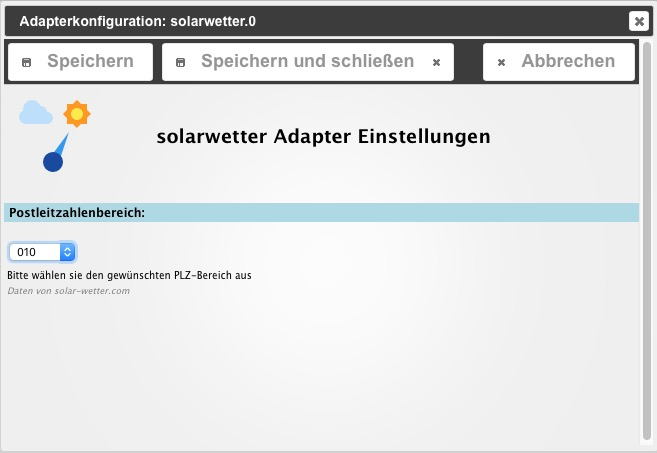
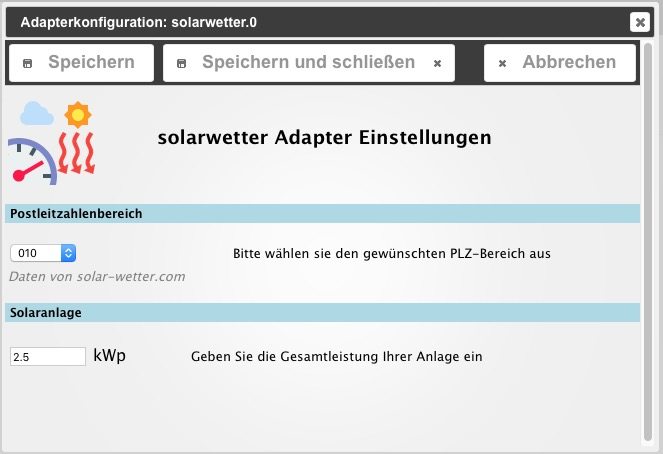
0.0.3

diff --git a/admin/index.html b/admin/index.html
@@ -17,12 +17,20 @@
     <script type="text/javascript" src="plz.js"></script>
 
     <style>
-        #description {
+        .description {
             font-size: smaller;	
         }
         .headline {
         	padding-top: 20px;
         	padding-left: 10px;
+        }
+        .subline {
+        
+        }
+        .copyright {
+           color: gray;
+           font-style: italic;
+           font-size: smaller;
         }
     </style>
 
@@ -34,9 +42,9 @@
                 "ru": "Настройки solarwetter Adapter"
             },
             "Postcode": {
-                "en": "Post code area:",
-                "de": "Postleitzahlenbereich:",
-                "ru": "Translate please: Postleitzahlenbereich:"
+                "en": "Post code area",
+                "de": "Postleitzahlenbereich",
+                "ru": "Translate please: Postleitzahlenbereich"
             },
             "Description": {
                 "en": "Choose your area by selecting the post code",
@@ -47,6 +55,16 @@
                 "en": "Data provided by solar-wetter.com",
                 "de": "Daten von solar-wetter.com",
                 "ru": "Translate to ru please: Data provided by solar-wetter.com"
+            },
+            "Device": {
+                "en": "Solar plant",
+                "de": "Solaranlage",
+                "ru": "Translate to ru please: Solar plant"
+            },
+            "Device_power": {
+                "en": "Power of your device",
+                "de": "Geben Sie die Gesamtleistung Ihrer Anlage ein",
+                "ru": "Translate to ru please: Geben Sie die Gesamtleistung Ihrer Anlage ein"
             }
         };
    
@@ -59,12 +77,13 @@
                 text += '<option value="' + plz[p] + '">' + plz[p] + '</option>\n';
             }
             $('#areacodelist').append(text);
-            
+           
+            $('#power').val(settings.power).change(onChange).keyup(onChange);
             onChange(false);
         }
         
         function save(callback) {
-            callback({location: $('#location').val()});
+            callback({location: $('#location').val(), power: $('#power').val().replace(/,/, ".")});
         }
     </script>
 
@@ -75,7 +94,7 @@
                 <td class="headline"><h3 class="translate">solarwetter Adapter settings</h3></td>
             </tr>
         </table>
-        <h4 class="translate" style="width: calc(100% - 10px)">Postcode</h4>
+        <h4 class="translate subline" style="width: calc(100% - 10px)">Postcode</h4>
         <table style="width: calc(100% - 5px)">
             <tr>
                 <td>
@@ -84,15 +103,18 @@
                         <!-- areacodelist from plz.js will be pasted here by skript -->
                         </optgroup>
                     </select>
-                </td>
-            </tr>
-        </table>
-        <table id="description" style="width: calc(100% - 5px)">
-            <tr>
-                <td class="translate ">Description</td>
+                </td> 
+                <td class="translate description">Description</td>
             </tr>
             <tr>    
-                <td class="translate" style="color: gray; font-style: italic; font-size: smaller">Copyright</td>
+                <td class="translate copyright">Copyright</td>
+            </tr>
+        </table>
+        <h4 class="translate subline" style="width: calc(100% - 10px)">Device</h4>
+        <table id="owndevice" style="margin-top: 20px; width: calc(100% - 5px)">
+            <tr>
+                <td ><input type="text" id="power" class="value" size="10"/> kWp</td>
+                <td class="translate description">Device_power</td>
             </tr>
         </table>
     </div>

diff --git a/main.js b/main.js
@@ -13,15 +13,20 @@ var adapter = utils.adapter({
 });
 
 var plz;
+var power;
 var link;
 
 var logging = false;
 
-var idClearSky =   'forecast.clearSky',
-    idRealSkyMin = 'forecast.realSky_min',
-    idRealSkyMax = 'forecast.realSky_max',
-    idDatum =      'forecast.Datum',
-    idPLZ =        'forecast.Region';
+var idClearSky =       'forecast.clearSky',
+    idRealSkyMin =     'forecast.realSky_min',
+    idRealSkyMax =     'forecast.realSky_max',
+    idDatum =          'forecast.Datum',
+    idPLZ =            'forecast.Region',
+    idHomeAnlage =     'forecast.home.Leistung',
+    idHomeClearSky =   'forecast.home.clearSky',
+    idHomeRealSkyMin = 'forecast.home.realSky_min',
+    idHomeRealSkyMax = 'forecast.home.realSky_max';
     
 adapter.on('ready', function () {
     adapter.getForeignObject('system.config', function (err, data) {
@@ -51,6 +56,15 @@ function readSettings() {
         adapter.log.info('Postcode: '+ plz);
         adapter.setState(idPLZ, plz, true);
     }
+    
+    power = adapter.config.power;
+    if (power === undefined || power === 0) {
+        adapter.log.info('Keine Leistung für die eigene Anlage angegeben'); // Translate!
+        power = 0;
+    } else {
+        adapter.log.info('Leistung eigene Anlage: '+ power + 'kWp');
+    }
+    adapter.setState(idHomeAnlage, power, true);
 } 
 
 function erstes_erstesAuftauchen(body,text1,text2) {
@@ -131,6 +145,7 @@ function findeWertClearsky (body) {
     var clearsky = erstes_erstesAuftauchen(body,text1,text2);
     if (logging) adapter.log.debug('ClearSky: ' + clearsky);
     adapter.setState(idClearSky, {ack: true, val: clearsky});                         // Wert in Objekt schreiben
+    adapter.setState(idHomeClearSky, {ack: true, val: clearsky * power});             // Wert in Objekt schreiben
 }
 
 function findeWertRealskyMinimum (body) {   
@@ -139,6 +154,7 @@ function findeWertRealskyMinimum (body) {
     var realsky_min = erstes_erstesAuftauchen(body,text1,text2);
     if (logging) adapter.log.debug('RealSkyMinimum: ' + realsky_min);
     adapter.setState(idRealSkyMin, {ack: true, val: realsky_min});                    // Wert in Objekt schreiben
+    adapter.setState(idHomeRealSkyMin, {ack: true, val: realsky_min * power});        // Wert in Objekt schreiben
 }
  
 function findeWertRealskyMaximum (body) {   
@@ -147,6 +163,7 @@ function findeWertRealskyMaximum (body) {
     var realsky_max = erstes_letztesAuftauchen(body,text1,text2);
     if (logging) adapter.log.debug('RealSkyMaximum: ' + realsky_max);
     adapter.setState(idRealSkyMax, {ack: true, val: realsky_max});                    // Wert in Objekt schreiben
+    adapter.setState(idHomeRealSkyMax, {ack: true, val: realsky_max * power});        // Wert in Objekt schreiben
 }
 
 function findeDatum (body) {   

diff --git a/README.md b/README.md
@@ -9,15 +9,19 @@
 [![NPM](https://nodei.co/npm/iobroker.solarwetter.png?downloads=true)](https://nodei.co/npm/iobroker.solarwetter/)
 
 ## Beschreibung / Description
-:de: Dieser Adapter liefert den prognostizierten Solarstrom Tagesertrag für eine bestimmte Region. Die Daten kommen von [http://www.auswahl-plz-bereich.solar-wetter.com](http://solar-wetter.com). 
+:de: Dieser Adapter liefert den prognostizierten Solarstrom Tagesertrag für eine bestimmte Region. Die Daten kommen von [http://www.auswahl-plz-bereich.solar-wetter.com](http://solar-wetter.com).
+Bei Eingabe der Leistung der eigenen Solaranlage errechnet der Adapter auch die zu erwartende Energieabgabe der Anlage.
 
 :uk: This adapter delivers a forecast of the daily amount of solar power for a specific region from supplier [http://www.auswahl-plz-bereich.solar-wetter.com](http://solar-wetter.com). 
+Translate!!!!
 
 ## Einstellungen / Configuration
 ### Region
 Örtlichkeit durch Auswahl des Postleitzahlenbereichs bestimmen
+Gesamtleistung der eigenen Solaranlage zur Berechnung der Energieerzeugung
 
 Choose your region by selecting from the list of post codes.
+Type in power of your solar plant to calculate energy output.
 
 ![alt text](img/solarwetterSettingScreenshot.jpg "Screenshot Settings")
 
@@ -38,9 +42,19 @@ solarwetter.0.forecast.__Datum__  (*string, no timestamp*)
 
 solarwetter.0.forecast.__Region__ (*value*)
 
+solarwetter.0.forecast.home.__clearSky__ (*value*)
+
+solarwetter.0.forecast.home.__realSky_min__(*value*)
+
+solarwetter.0.forecast.home.__realSky_max__ (*value*)
+
+solarwetter.0.forecast.home.__Leistung__ (*value*)
+
 
 
 ## Changelog
+### 0.0.3 (2016-05-13)
+* (pix) Calculates power of own solar plant
 
 ### 0.0.2 (2016-05-13)
 * (pix) Post code area selectable
